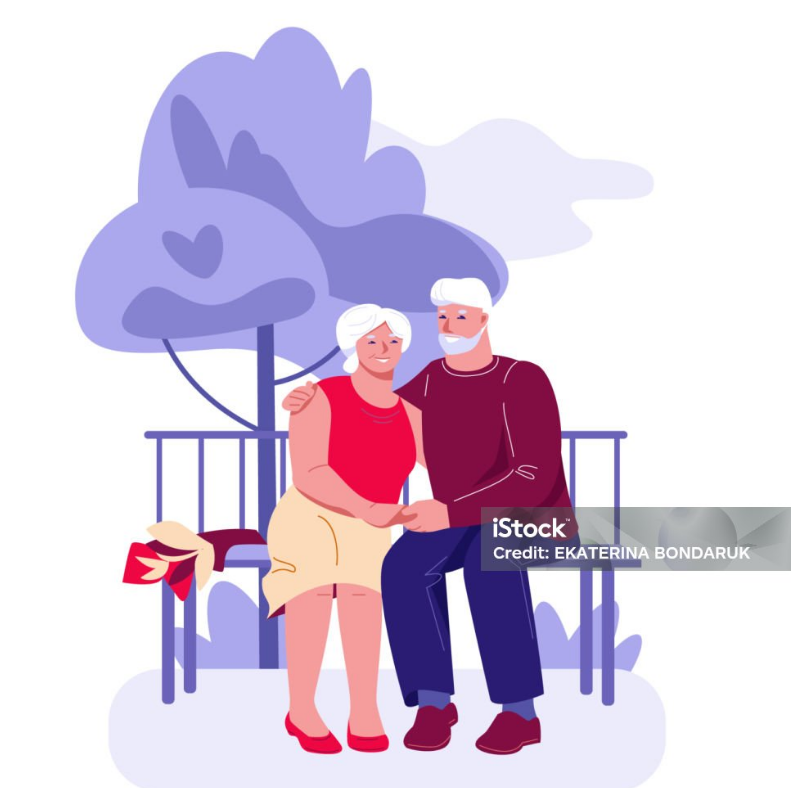
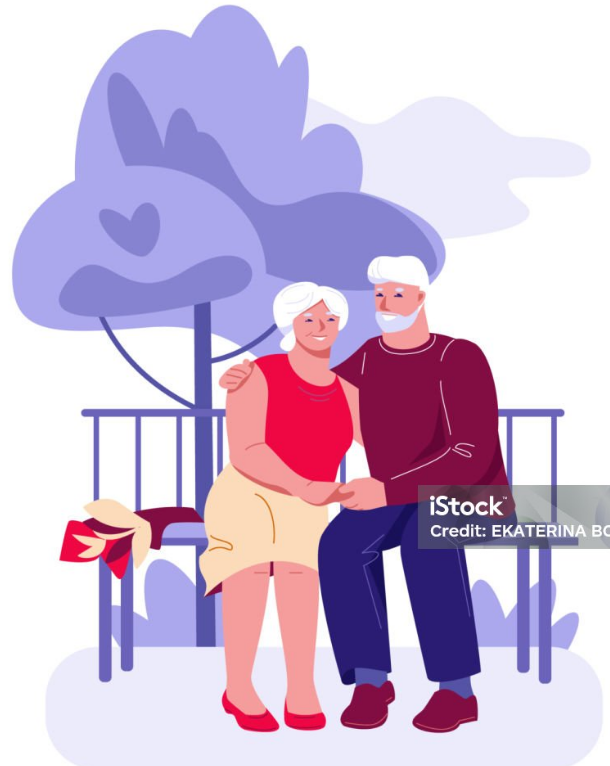
feat: testes imagens

diff --git a/assets/css/templatemo-tale-seo-agency.css b/assets/css/templatemo-tale-seo-agency.css
@@ -855,8 +855,8 @@ Banner Style
 
     .main-banner:after {
         content: url(../images/varios_melhor_idade.png);
-        top: 80px;
-        right: 160px;
+        top: 265px;
+        right: 55px;
         position: absolute;
         width: 861px;
         height: 746px;
@@ -949,8 +949,8 @@ Services Style
 
     .services::before {
         content: url(../images/casal_sentado.png);
-        top: 50px;
-        left: 0;
+        top: 0;
+        left: 100px;
         position: absolute;
         width: 844px;
         height: 714px;
